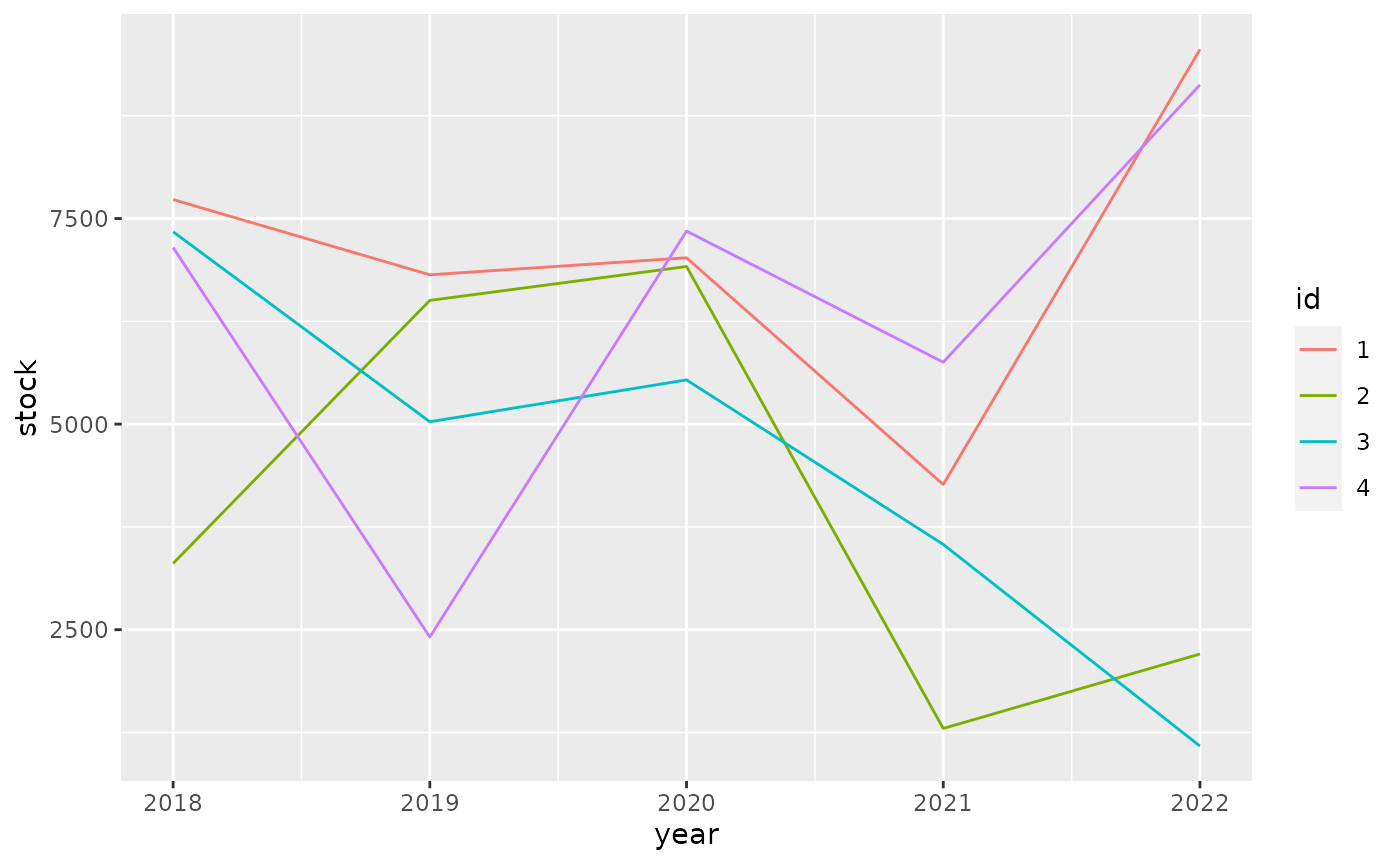
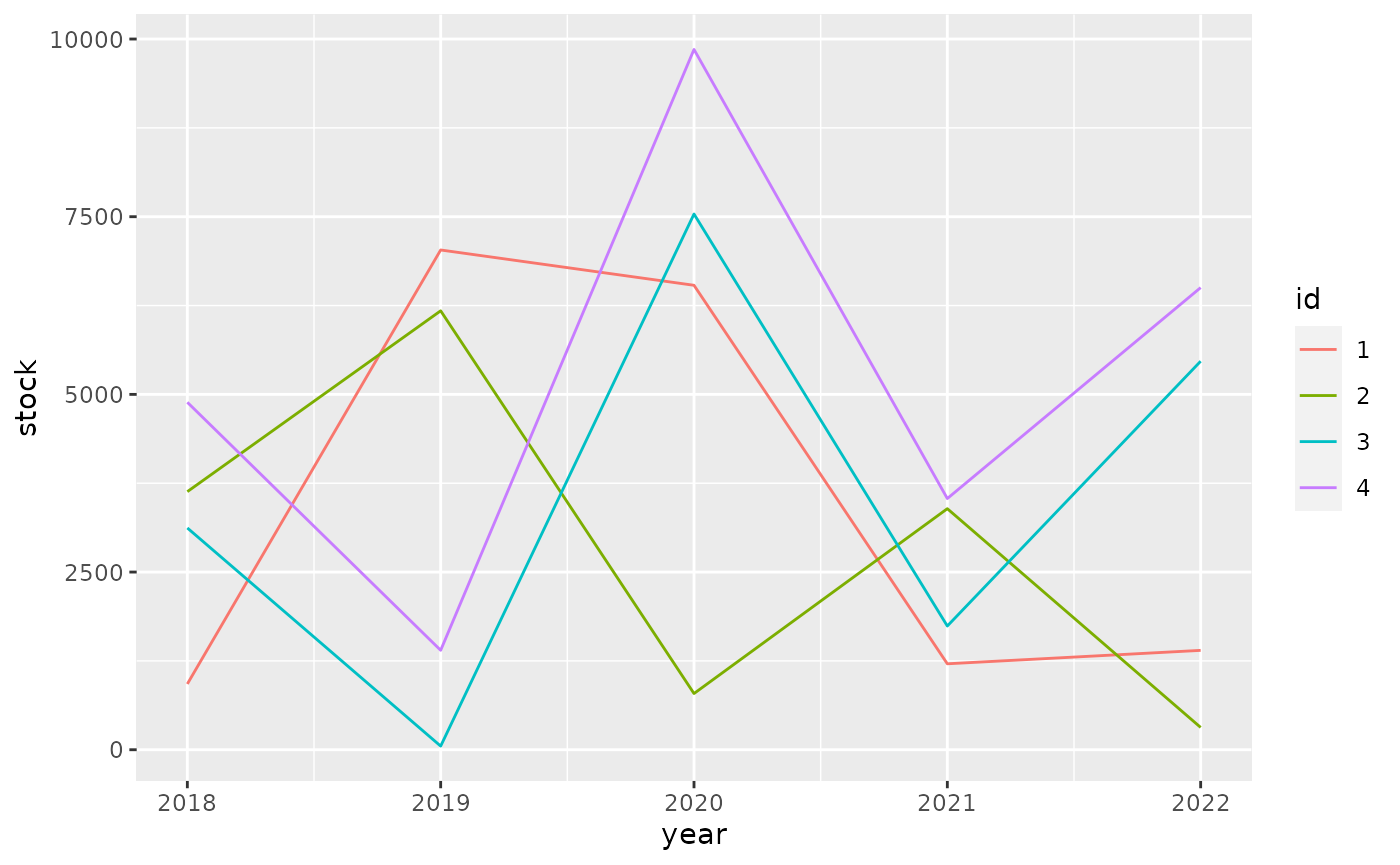
Built site for tibble: 3.1.0@48ea5cc

diff --git a/articles/formats.html b/articles/formats.html
@@ -220,10 +220,10 @@
 <span class="co">#&gt; # A tibble: 4 x 6</span>
 <span class="co">#&gt;   id       `2018`    `2019`    `2020`    `2021`    `2022`</span>
 <span class="co">#&gt;   &lt;fct&gt; &lt;dbl:fmt&gt; &lt;dbl:fmt&gt; &lt;dbl:fmt&gt; &lt;dbl:fmt&gt; &lt;dbl:fmt&gt;</span>
-<span class="co">#&gt; 1 1     $7,730.99 $6,815.93 $7,022.76 $4,265.53 $9,556.53</span>
-<span class="co">#&gt; 2 2     $3,305.41 $6,504.54 $6,916.55 $1,298.72 $2,204.76</span>
-<span class="co">#&gt; 3 3     $7,339.53 $5,028.62 $5,537.74 $3,536.86 $1,084.30</span>
-<span class="co">#&gt; 4 4     $7,147.95 $2,410.59 $7,347.41 $5,752.60 $9,126.40</span></code></pre></div>
+<span class="co">#&gt; 1 1       $925.39 $7,031.78 $6,535.00 $1,209.30 $1,398.19</span>
+<span class="co">#&gt; 2 2     $3,631.30 $6,176.02   $790.83 $3,391.60   $313.83</span>
+<span class="co">#&gt; 3 3     $3,120.45    $51.17 $7,537.76 $1,740.76 $5,466.56</span>
+<span class="co">#&gt; 4 4     $4,888.54 $1,399.28 $9,853.43 $3,534.47 $6,502.35</span></code></pre></div>
 <p>For ggplot2 we need to do <a href="https://github.com/tidyverse/ggplot2/pull/4065" class="external-link">some work</a> to show apply the formatting to the scales.</p>
 <div class="sourceCode" id="cb6"><pre class="downlit sourceCode r">
 <code class="sourceCode R"><span class="kw"><a href="https://rdrr.io/r/base/library.html" class="external-link">library</a></span><span class="op">(</span><span class="va"><a href="https://ggplot2.tidyverse.org" class="external-link">ggplot2</a></span><span class="op">)</span>
@@ -234,10 +234,10 @@
   <span class="fu"><a href="https://ggplot2.tidyverse.org/reference/geom_path.html" class="external-link">geom_line</a></span><span class="op">(</span><span class="op">)</span></code></pre></div>
 <p><img src="formats_files/figure-html/unnamed-chunk-7-1.png" width="700"></p>
 <p>It pays off to specify formatting very early in the process. The diagram below shows the principal stages of data analysis and exploration from “R for data science”.</p>
-<div id="htmlwidget-8ace4da55e8553574c9c" style="width:700px;height:432.632880098888px;" class="DiagrammeR html-widget"></div>
-<script type="application/json" data-for="htmlwidget-8ace4da55e8553574c9c">{"x":{"diagram":"graph TD\n  Import --> Tidy\n  Tidy --> Transform\n  Transform --> Visualize\n  Visualize --> Communicate\n  Visualize --> Model\n  Model -.-> Transform"},"evals":[],"jsHooks":[]}</script><p>The subsequent diagram adds data formats, communication options, and explicit data formatting. The original r4ds transitions are highlighted in bold. There are two principal options where to apply formatting for results: right before communicating them, or right after importing.</p>
-<div id="htmlwidget-7528cfbac2c0d697ccec" style="width:700px;height:432.632880098888px;" class="DiagrammeR html-widget"></div>
-<script type="application/json" data-for="htmlwidget-7528cfbac2c0d697ccec">{"x":{"diagram":"graph TD\n  .csv --> Import\n  API --> Import\n  DBI --> Import\n  dbplyr --> Import\n  Import -.-> Format[Format for analysis]\n  Format -.-> Tidy\n\n  subgraph r4ds\n  Import ==> Tidy\n  Tidy ==> Transform\n  Transform ==> Visualize\n  Visualize ==> Model\n  Model -.-> Transform\n  Visualize ==> Communicate\n  end\n\n  Visualize -.-> FormatComm[Format for communication]\n  FormatComm -.-> Communicate\n\n  FormatComm -- Apply formatting early --> Format\n\n  dbplyr -.-> Tidy\n  dbplyr -.-> Transform\n  dbplyr -.-> Visualize\n\n  Communicate --> gt\n  Communicate --> ggplot2\n  Communicate --> DT\n  Communicate --> plotly"},"evals":[],"jsHooks":[]}</script><p>Applying formatting early in the process gives the added benefit of showing the data in a useful format during the “Tidy”, “Transform”, and “Visualize” stages. For this to be useful, we need to ensure that the formatting options applied early:</p>
+<div id="htmlwidget-355424b98ded7588e55f" style="width:700px;height:432.632880098888px;" class="DiagrammeR html-widget"></div>
+<script type="application/json" data-for="htmlwidget-355424b98ded7588e55f">{"x":{"diagram":"graph TD\n  Import --> Tidy\n  Tidy --> Transform\n  Transform --> Visualize\n  Visualize --> Communicate\n  Visualize --> Model\n  Model -.-> Transform"},"evals":[],"jsHooks":[]}</script><p>The subsequent diagram adds data formats, communication options, and explicit data formatting. The original r4ds transitions are highlighted in bold. There are two principal options where to apply formatting for results: right before communicating them, or right after importing.</p>
+<div id="htmlwidget-4352a4c82583a61a831b" style="width:700px;height:432.632880098888px;" class="DiagrammeR html-widget"></div>
+<script type="application/json" data-for="htmlwidget-4352a4c82583a61a831b">{"x":{"diagram":"graph TD\n  .csv --> Import\n  API --> Import\n  DBI --> Import\n  dbplyr --> Import\n  Import -.-> Format[Format for analysis]\n  Format -.-> Tidy\n\n  subgraph r4ds\n  Import ==> Tidy\n  Tidy ==> Transform\n  Transform ==> Visualize\n  Visualize ==> Model\n  Model -.-> Transform\n  Visualize ==> Communicate\n  end\n\n  Visualize -.-> FormatComm[Format for communication]\n  FormatComm -.-> Communicate\n\n  FormatComm -- Apply formatting early --> Format\n\n  dbplyr -.-> Tidy\n  dbplyr -.-> Transform\n  dbplyr -.-> Visualize\n\n  Communicate --> gt\n  Communicate --> ggplot2\n  Communicate --> DT\n  Communicate --> plotly"},"evals":[],"jsHooks":[]}</script><p>Applying formatting early in the process gives the added benefit of showing the data in a useful format during the “Tidy”, “Transform”, and “Visualize” stages. For this to be useful, we need to ensure that the formatting options applied early:</p>
 <ul>
 <li>give a good user experience for analysis
 <ul>

diff --git a/articles/invariants.html b/articles/invariants.html
@@ -170,7 +170,7 @@
 <p>In this article, all behaviors are demonstrated using one example data frame and its tibble equivalent:</p>
 <div class="sourceCode" id="cb1"><pre class="downlit sourceCode r">
 <code class="sourceCode R"><span class="kw"><a href="https://rdrr.io/r/base/library.html" class="external-link">library</a></span><span class="op">(</span><span class="va"><a href="https://tibble.tidyverse.org/">tibble</a></span><span class="op">)</span>
-<span class="kw"><a href="https://rdrr.io/r/base/library.html" class="external-link">library</a></span><span class="op">(</span><span class="va"><a href="https://vctrs.r-lib.org/" class="external-link">vctrs</a></span>, mask.ok <span class="op">=</span> <span class="cn">TRUE</span><span class="op">)</span>
+<span class="kw"><a href="https://rdrr.io/r/base/library.html" class="external-link">library</a></span><span class="op">(</span><span class="va"><a href="https://vctrs.r-lib.org/" class="external-link">vctrs</a></span>, mask.ok <span class="op">=</span> <span class="st">"data_frame"</span><span class="op">)</span>
 <span class="co">#&gt; </span>
 <span class="co">#&gt; Attaching package: 'vctrs'</span>
 <span class="co">#&gt; The following object is masked from 'package:tibble':</span>

diff --git a/articles/types.html b/articles/types.html
@@ -351,7 +351,7 @@
 #&gt; $ factor        &lt;fct&gt; A
 #&gt; $ ordered       &lt;ord&gt; a
 #&gt; $ Date          &lt;date&gt; 2021-02-25
-#&gt; $ POSIXt        &lt;dttm&gt; 2021-02-25 06:37:46
+#&gt; $ POSIXt        &lt;dttm&gt; 2021-02-25 06:53:44
 #&gt; $ difftime      &lt;drtn&gt; 1 secs
 #&gt; $ hms           &lt;time&gt; 00:00:01
 #&gt; $ integer64     &lt;int64&gt; 10000000000
@@ -381,7 +381,7 @@
 <span class="co">#&gt;             "sym"</span>
 <span class="co">#&gt;         }, typeof(x))</span>
 <span class="co">#&gt; }</span>
-<span class="co">#&gt; &lt;bytecode: 0x562679b23a78&gt;</span>
+<span class="co">#&gt; &lt;bytecode: 0x564ae0d4d2c8&gt;</span>
 <span class="co">#&gt; &lt;environment: namespace:pillar&gt;</span></code></pre></div>
 </div>
   </div>
